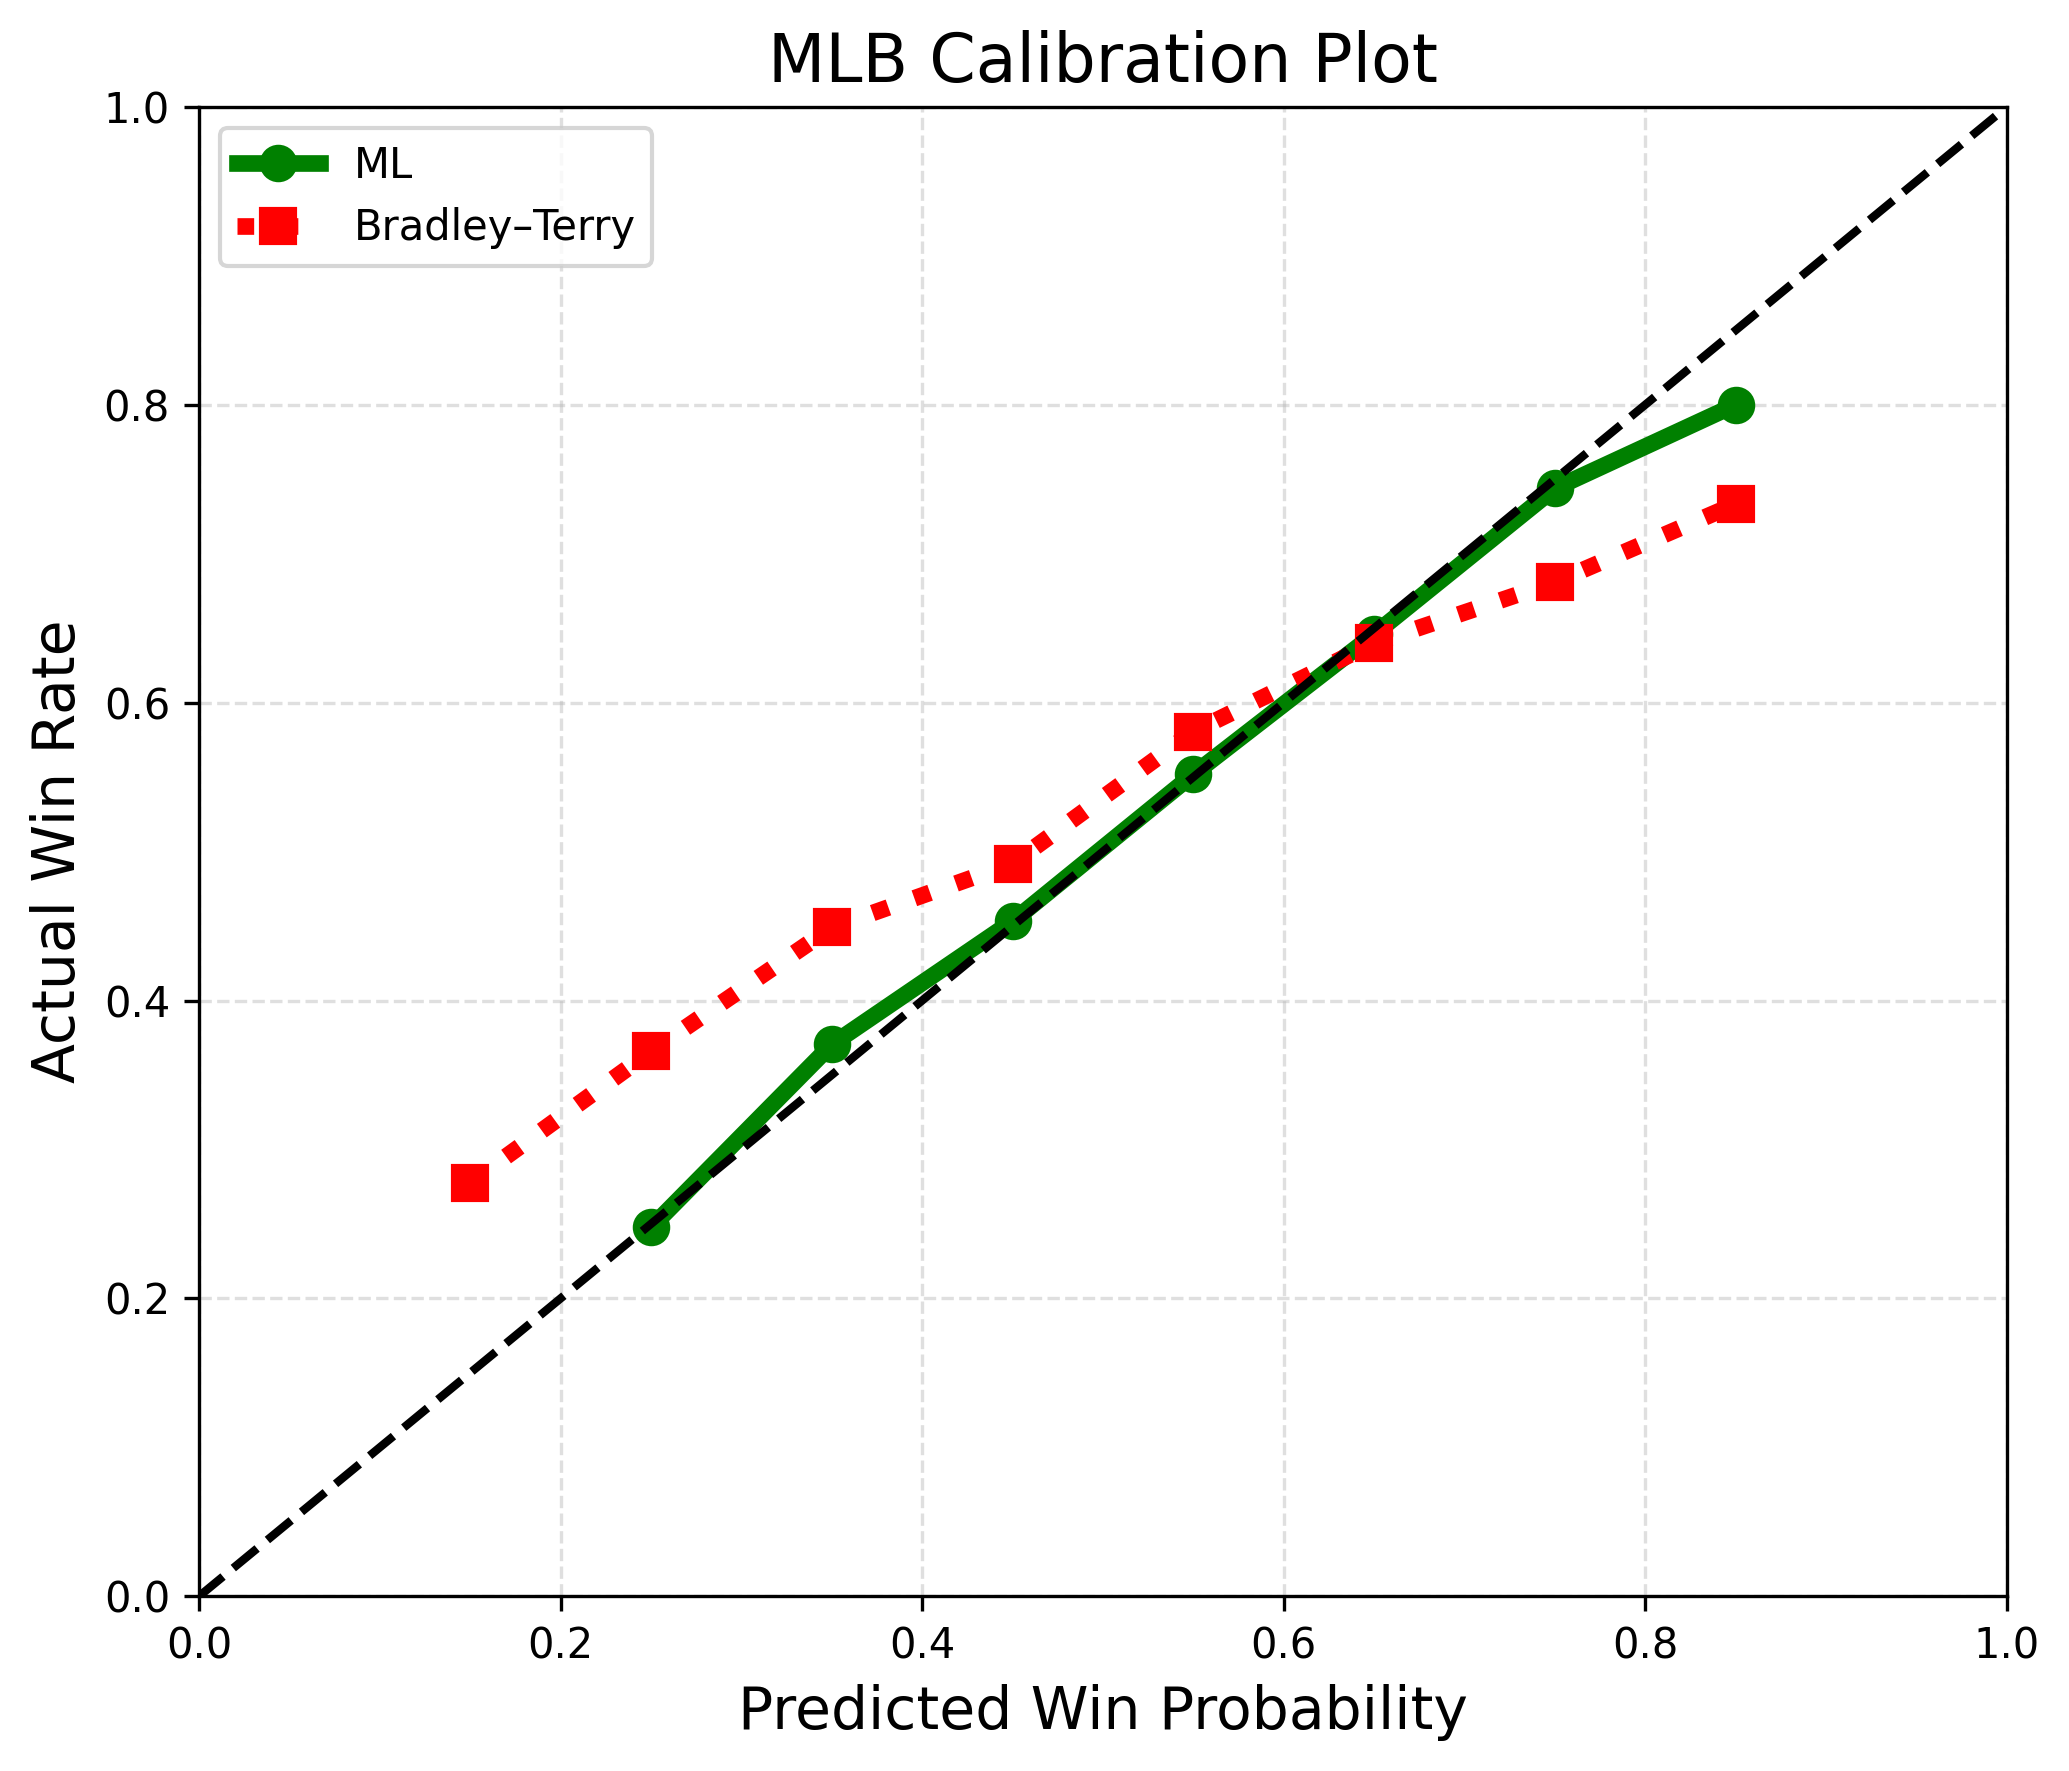
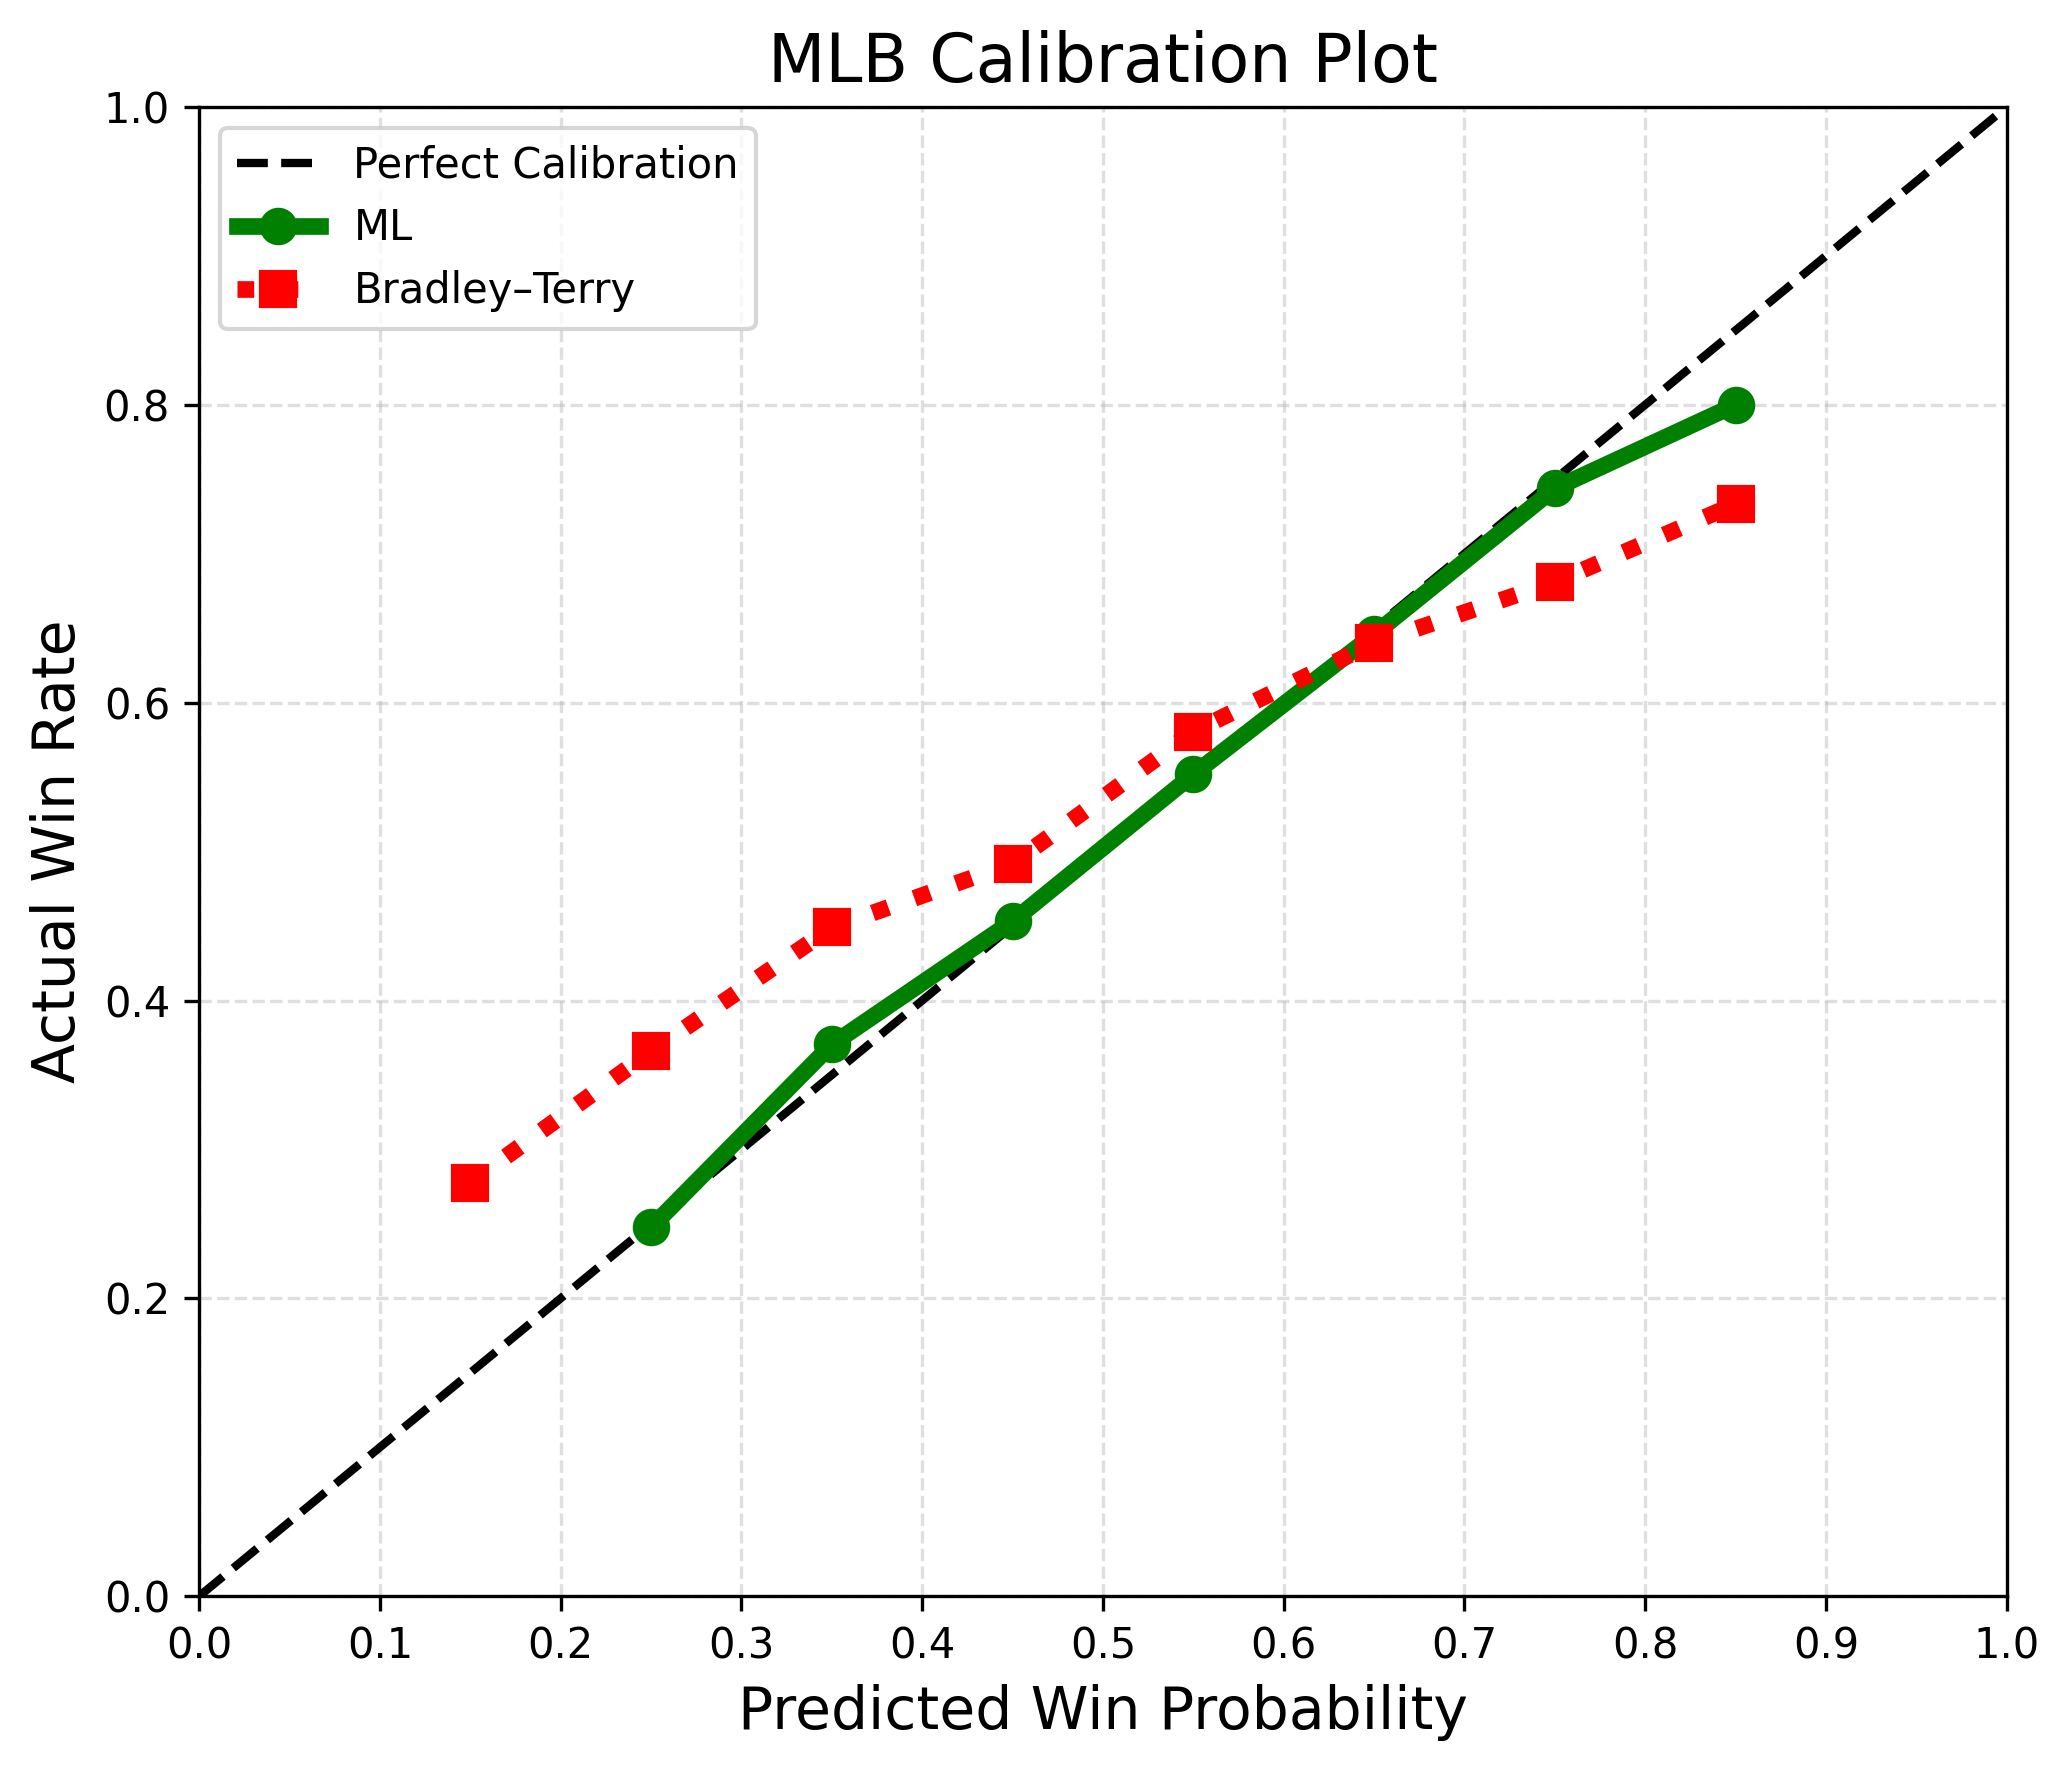
added src graphing readme

diff --git a/src/graphing/calibration.py b/src/graphing/calibration.py
@@ -18,6 +18,9 @@ def plot_calibration(league: str) -> None:
 
     plt.figure(figsize=(7, 6))
 
+    # perfect calibration line
+    plt.plot([0, 1], [0, 1], linestyle="--", color="black", linewidth=2, label="Perfect Calibration")
+
     plt.plot(
         (df["bin"] / 10) + 0.05,
         df["ml_winrate"],
@@ -39,9 +42,7 @@ def plot_calibration(league: str) -> None:
         markersize=8
     )
 
-    # perfect calibration line
-    plt.plot([0, 1], [0, 1], linestyle="--", color="black", linewidth=2)
-
+    plt.xticks([x/10 for x in range(11)])
     plt.xlabel("Predicted Win Probability", fontsize=14)
     plt.ylabel("Actual Win Rate", fontsize=14)
     plt.title(f"{league.upper()} Calibration Plot", fontsize=16)

diff --git a/src/graphing/ml_seasonal_brier.py b/src/graphing/ml_seasonal_brier.py
@@ -38,7 +38,6 @@ def plot_brier_scores(csv_path: Path) -> None:
 
     cols = ["mlb_brier", "nba_brier", "nfl_brier", "nhl_brier"]
 
-    df = df.dropna(subset=cols)
 
     plt.figure(figsize=(10, 6))
 

diff --git a/src/graphing/README.md b/src/graphing/README.md
@@ -1,0 +1,68 @@
+# `src/graphing/`
+This folder contains all the scripts for graphing and plotting the results into figures. All figures show results only from games from the second half of each regular season. 
+
+
+
+
+### `src/graphing/bookmaker_profit.py`
+This Python script plots 4 box plots. Each box plot displays the summary statistics for the moneyline bookamker profits for a sports league. The four leagues are MLB, NBA, NFL, and NHL. The statistics plotted are the min, first quartile, median, third quartile, max, and all outliers are represented as individual points. The figure is saved to `results/bookmaker_profit.png`. 
+
+
+### `src/graphing/calibration.py`
+This Python script plots the calibration plot displaying the adequecy of moneyline based and Bradley-Terry based probabilistic predictions. The horizontal axis shows 10 equal-width home probabilitistic prediction bins. The vertical axis is the actual home win rate of games in those bins. Points close to each horizontal side may be missing, which indicate no games the home team predicted with probability in that bin. For each league, the figure is saved to `results/calibration/{league}.png`. 
+
+
+### `src/graphing/home_predictions_box.py`
+This Python script plots 4 box plots for each specified prediction method. The two prediction methods are moneyline based and Bradley-Terry based. Each box plot displays the summary statistics for the prediction method's home team win probabilities for a specific league. The four leagues are MLB, NBA, NFL, and NHL. The statistics plotted are the min, first quartile, median, third quartile, max, and all outliers are represented as individual points. For each prediction method, the figure is saved to `results/home_predictions/{method}_box.png`. 
+
+
+### `src/graphing/home_predictions_hist.py`
+This Python script plots 4 histograms for each specified prediction method. The two prediction methods are moneyline based and Bradley-Terry based. Each histogram displays the distribution of the prediction method's home team win probabilities for a specific league. The four leagues are MLB, NBA, NFL, and NHL. There are 30 equal-width bins used for each league's histogram. The density is used instead of the raw counts because each league has a different total count of games. For each prediction method and league, the figure is saved to `results/home_predictions/{method}_{league}_hist.png`. 
+
+
+### `src/graphing/ml_seasonal_brier.py`
+This Python script plots a line graph displaying the Brier score of the moneyline based probabilistic prediction for each league by season. The horizontal axis displays the season as an integer representing the year the season ended. The vertical axis is the Brier score. The figure is saved to `results/ml_seasonal_brier.png`. 
+
+
+### `src/ml_teamwise_brier.py`
+This Python script plots a bar chart for each league. Each leaguue's bar chart displays the Brier score of the moneyline based probabilistic predictions for each team in the league. The Brier score of a team is the Brier score of all games involving the team. The bars are sorted in ascending order. For each league, the figure is saved to `results/ml_teamwise_brier/{league}.png`.
+
+
+### `src/model_seasonal_brier.py`
+This Python script plots a line graph for each league. Each league's line graph displays the Brier score of various model's probabilistic predictions by season. For each league, the figure is saved to `results/model_seasonal_brier/{league}.png`. The models used in each line graph are below.
+- Moneyline: Brier scores of the moneyline based probabilistic predictions.
+- Bradley-Terry: Brier scores of the Bradley-Terry based probabilistic predictions.
+- Home Bias Coinflip: Brier scores of the baseline model that predicts the home team to win with the proportion of first half regular season games won by the home team. 
+- Coinflip: Brier scores of the baseline model that always predicts the home team to win with 0.5 probability. 
+
+
+### `src/roi_binned.py`
+This Python script produces a line graph for each prediction method, league, and bin. The two prediction methods are moneyline based and Bradley-Terry based. The four leagues are MLB, NBA, NFL, and NHL. There are 10 bins for each prediction method and league, and they are all equally sized. Each line graph shows the return on investment of always betting on the favorite and the return on investment of always betting on the underdog by season. The favorite of the game is determined by the specified probabilistic prediction method. If the specified probabilistic prediction method is not the moneyline, then the favorite may disagree with the implied favorite from moneyline scores. However, the ROI is always calculated using the moneyline scores, regardless of specified prediction method.
+
+Example:
+- Home team: ML = -250.
+- Away team: ML = +200.
+- Bradley-Terry prediction: 0.4.
+The moneyline scores states that the home team is the favorite. However, because the Bradley-Terry based prediction is less than 0.5, the favorite according to Bradley-Terry is the away team. If the game resulted in the home team winning, the ROI of betting on the favorite would be -100% (all investment lost). If the game resulted in the away team winning, the ROI of betting on the favorite would be 200%.
+
+For each prediction method, league, and bin, the figure is saved to `results/roi/{method}_binned/{league}/bin_{bin}.png`. If the figure does not exist, that means there were no games in the league where the prediction method had a prediction within the bin for any season. 
+
+
+### `src/roi.py`
+This Python script produces a line graph for each prediction method and league. The two prediction methods are moneyline based and Bradley-Terry based. The four leagues are MLB, NBA, NFL, and NHL. There are 10 bins for each prediction method and league, and they are all equally sized. Each line graph shows the return on investment of always betting on the favorite and the return on investment of always betting on the underdog by bin. The favorite of the game is determined by the specified probabilistic prediction method. If the specified probabilistic prediction method is not the moneyline, then the favorite may disagree with the implied favorite from moneyline scores. However, the ROI is always calculated using the moneyline scores, regardless of specified prediction method.
+
+Example:
+- Home team: ML = -250.
+- Away team: ML = +200.
+- Bradley-Terry prediction: 0.4.
+The moneyline scores states that the home team is the favorite. However, because the Bradley-Terry based prediction is less than 0.5, the favorite according to Bradley-Terry is the away team. If the game resulted in the home team winning, the ROI of betting on the favorite would be -100% (all investment lost). If the game resulted in the away team winning, the ROI of betting on the favorite would be 200%.
+
+For each prediction method and league, the figure is saved to `results/roi/{method}/{league}.png`.
+
+
+### `src/graphing/seasonal_home_win.py`
+This Python script plots a line graph with a line for each league. Each league's line shows the proportion of games won by the home team in the first half of each leagues' regular season. The horizontal axis is the season as an integer representing the year the season ended. The vertical axis is the porbability. The figure is saved to `results/seasonal_home_win.png`.
+
+
+### `src/graphing/teamwise_winrates_corr.py`
+This Python script plots the scatter plot of teams for each league. For the teams in each league, the horizontal axis represents the absolute difference between the team's winrate and 50%. Team's on the left had winrates close to 50% and teams on the right had winrates much lower than 50% or winrates much higher than 50%. The vertical axis represents the Brier score of all games involving the team. The script also plots the least squares line with its equation. The p-value of the linear relationship between the absolute difference between a team's winrate and 50% with the Brier score. For each league, the figure is saved to `results/ml_teamwise_brier/{league}_winrates.png`.
